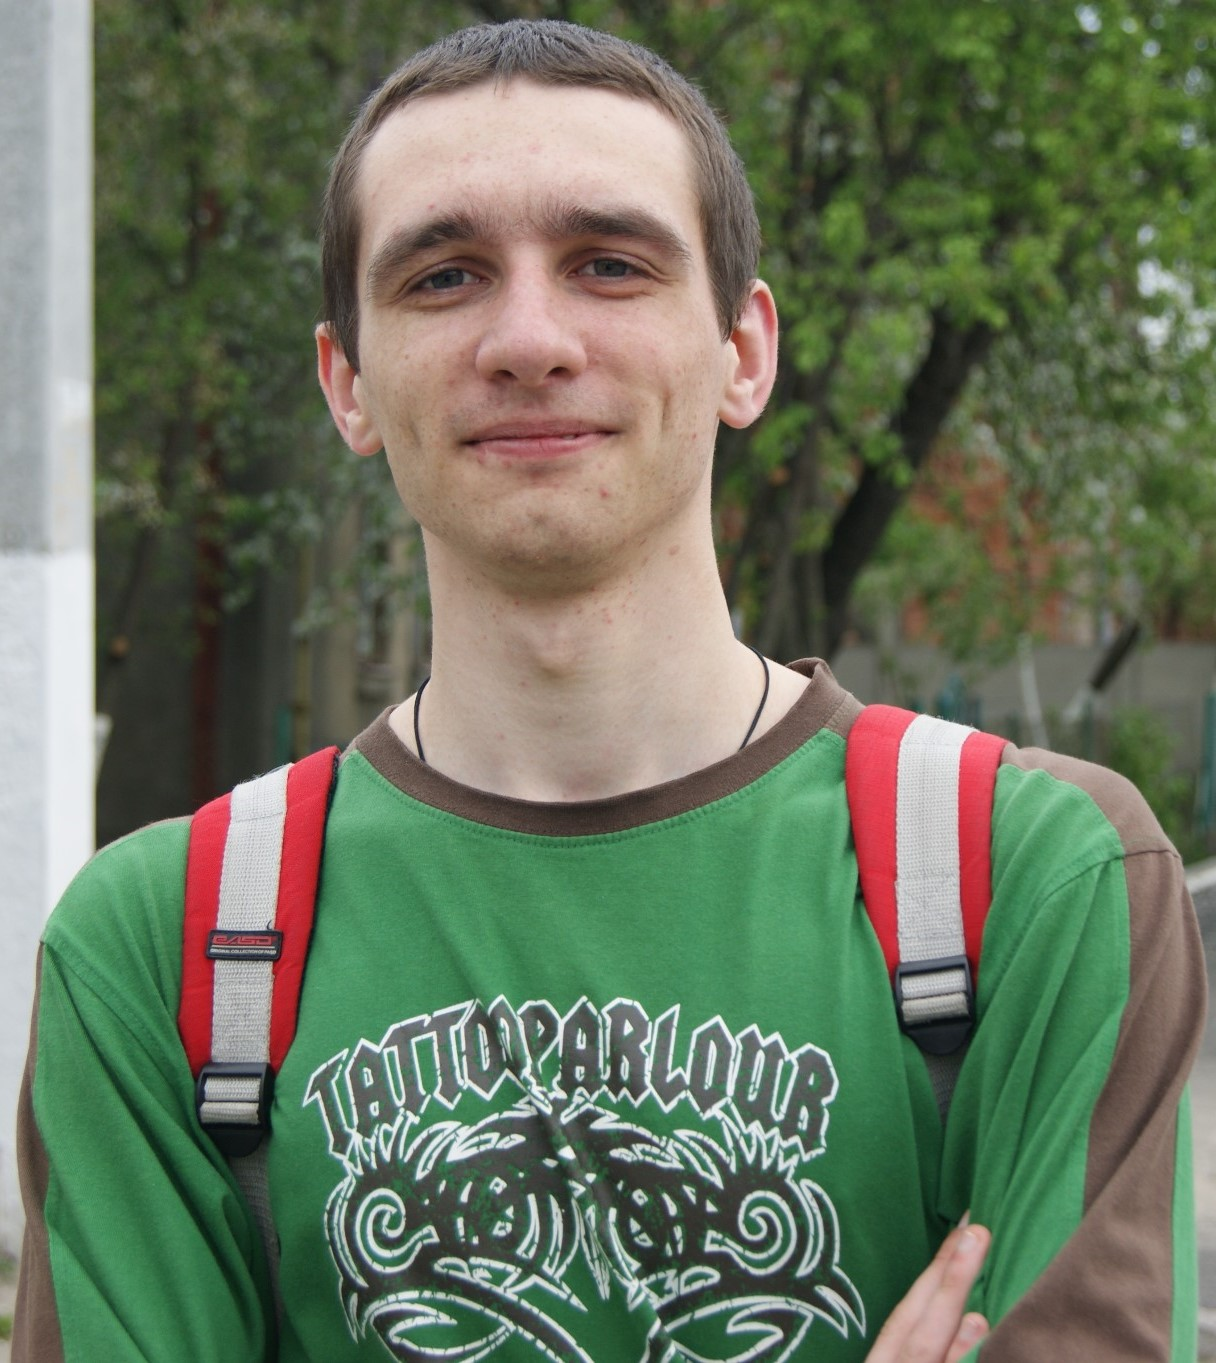
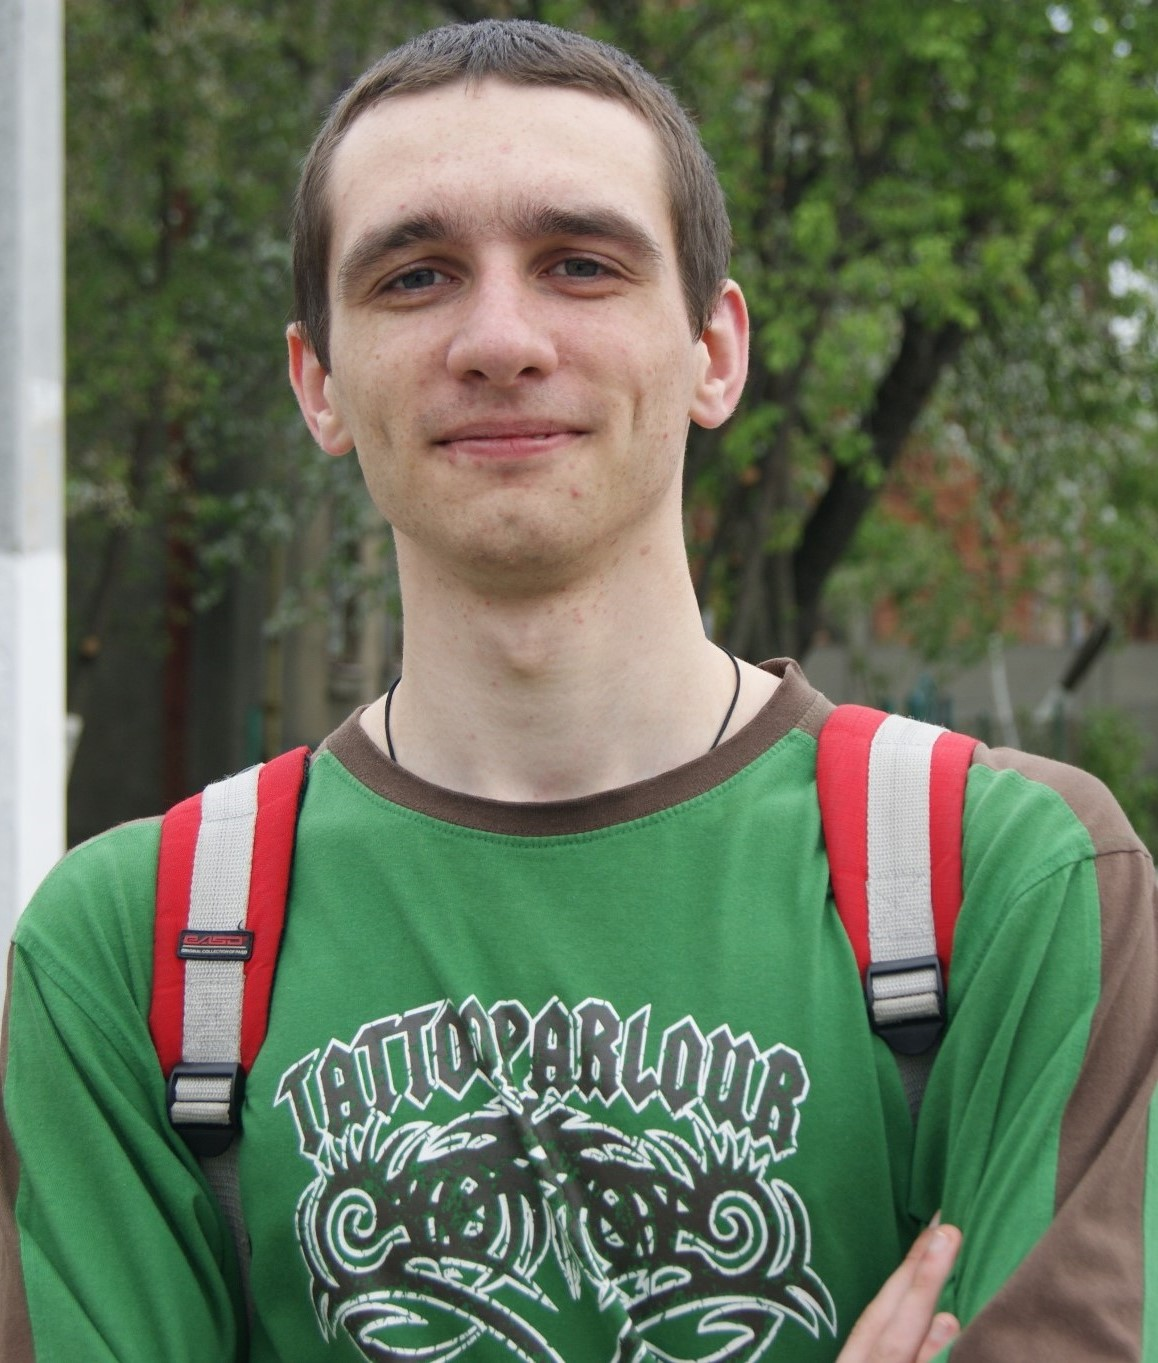
Small updates

diff --git a/www/index.html b/www/index.html
@@ -94,7 +94,7 @@
                                 <li><span>HTML (HTML5, Jade, WAI-ARIA)</span></li>
                                 <li><span>Agile (sprints, sprint planing, estimations)</span></li>
                                 <li><span>Code reviews</span></li><li><span>React/Flux</span></li>
-                                <li><span>WebStorm, Git, Postman, Windows/Linux</span></li>
+                                <li><span>WebStorm, Git, Postman, Construct 2, Windows/Linux</span></li>
                             </ul>
                         </span>
                     </div>
@@ -140,7 +140,7 @@
             </div>
 			<div class="clear"></div>
 		</div>
-			<div class="section">
+        <div class="section">
 			<h2 class="title">Projects</h2>
 			<div class="set">
                 <div class="item">

diff --git a/www/styles/main.css b/www/styles/main.css
@@ -86,6 +86,9 @@ p label span.colon {
 .section {
     margin-bottom: 25px;
 }
+.section:last-child {
+    margin-bottom: 0;
+}
 .section .set {
 }
 .item {
@@ -159,16 +162,16 @@ p label span.colon {
 }
 
 #photo {
-    width: 160px;
+    width: 170px;
     height: 200px;
     overflow: hidden;
     float: left;
-    margin-top: 4px;
+    margin: 4px 0 4px 0;
     border-radius: 4px;
 }
 #photo img {
-    width: 100%;
-    height: auto;
+    width: auto;
+    height: 100%;
 }
 .header.photo {
     margin-left: 190px;
